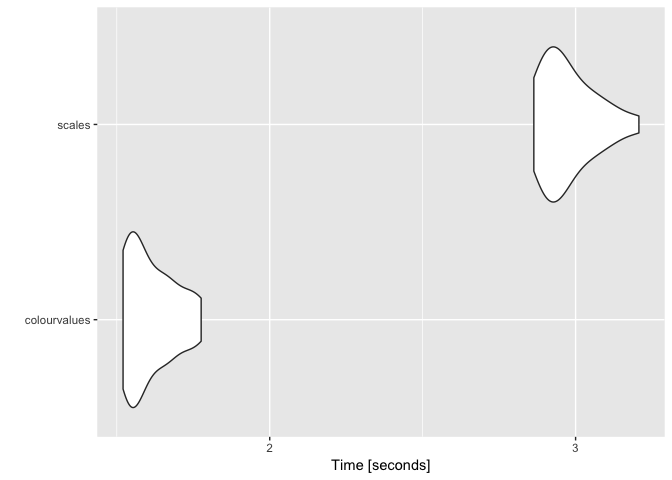
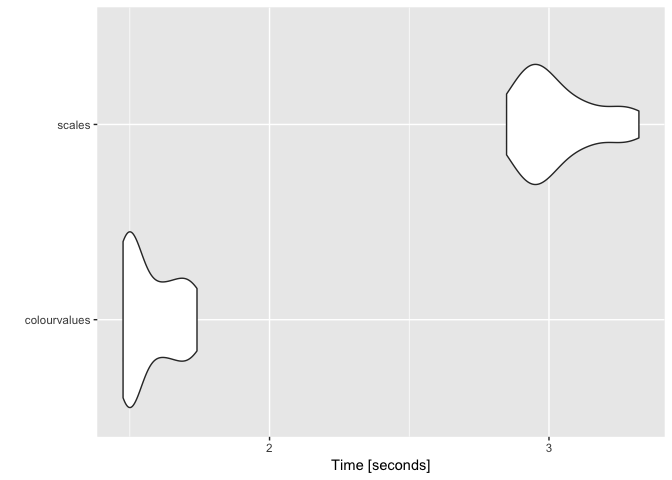
tests, news, description and cran checks

diff --git a/README.md b/README.md
@@ -275,11 +275,11 @@ summary
 ``` r
 colour_values(rnorm(n = 10), n_summaries = 3, digits = 2)
 # $colours
-#  [1] "#471163FF" "#472D7BFF" "#1F9F88FF" "#30B47BFF" "#287C8EFF"
-#  [6] "#2D6F8EFF" "#3F4989FF" "#FDE725FF" "#440154FF" "#404688FF"
+#  [1] "#27AD81FF" "#3F4989FF" "#39568CFF" "#218F8DFF" "#228C8DFF"
+#  [6] "#FDE725FF" "#440154FF" "#3F4889FF" "#453681FF" "#26818EFF"
 # 
 # $summary_values
-# [1] "-1.66" "0.33"  "2.32" 
+# [1] "-1.21" "0.71"  "2.62" 
 # 
 # $summary_colours
 # [1] "#440154FF" "#21908CFF" "#FDE725FF"
@@ -329,20 +329,20 @@ values, and their associated colours
 ``` r
 colour_values(sample(letters, size = 50, replace = T), summary = T)
 # $colours
-#  [1] "#43BF71FF" "#345F8DFF" "#FDE725FF" "#DDE318FF" "#21908CFF"
-#  [6] "#2A788EFF" "#345F8DFF" "#2FB47CFF" "#5DC963FF" "#440154FF"
-# [11] "#BCDF27FF" "#3B528BFF" "#43BF71FF" "#2F6C8EFF" "#2F6C8EFF"
-# [16] "#3B528BFF" "#440154FF" "#9AD93DFF" "#463480FF" "#1E9C89FF"
-# [21] "#463480FF" "#440154FF" "#440154FF" "#BCDF27FF" "#2FB47CFF"
-# [26] "#3B528BFF" "#7AD151FF" "#25848EFF" "#414487FF" "#3B528BFF"
-# [31] "#BCDF27FF" "#481466FF" "#22A884FF" "#2FB47CFF" "#9AD93DFF"
-# [36] "#21908CFF" "#9AD93DFF" "#2F6C8EFF" "#7AD151FF" "#FDE725FF"
-# [41] "#482575FF" "#1E9C89FF" "#440154FF" "#2A788EFF" "#481466FF"
-# [46] "#43BF71FF" "#482575FF" "#345F8DFF" "#22A884FF" "#43BF71FF"
+#  [1] "#2F6C8EFF" "#2FB47CFF" "#482575FF" "#2F6C8EFF" "#43BF71FF"
+#  [6] "#3B528BFF" "#414487FF" "#2FB47CFF" "#43BF71FF" "#5DC963FF"
+# [11] "#5DC963FF" "#2F6C8EFF" "#7AD151FF" "#345F8DFF" "#7AD151FF"
+# [16] "#7AD151FF" "#482575FF" "#25848EFF" "#1E9C89FF" "#2A788EFF"
+# [21] "#9AD93DFF" "#3B528BFF" "#481466FF" "#7AD151FF" "#22A884FF"
+# [26] "#5DC963FF" "#21908CFF" "#FDE725FF" "#21908CFF" "#DDE318FF"
+# [31] "#463480FF" "#21908CFF" "#25848EFF" "#2F6C8EFF" "#481466FF"
+# [36] "#25848EFF" "#440154FF" "#BCDF27FF" "#345F8DFF" "#25848EFF"
+# [41] "#440154FF" "#FDE725FF" "#440154FF" "#43BF71FF" "#1E9C89FF"
+# [46] "#22A884FF" "#2F6C8EFF" "#BCDF27FF" "#DDE318FF" "#463480FF"
 # 
 # $summary_values
-#  [1] "b" "f" "g" "h" "i" "j" "k" "m" "n" "o" "p" "q" "r" "s" "t" "u" "v"
-# [18] "w" "x" "y" "z"
+#  [1] "a" "b" "c" "e" "f" "g" "h" "i" "j" "k" "m" "o" "p" "q" "r" "s" "t"
+# [18] "u" "x" "y" "z"
 # 
 # $summary_colours
 #  [1] "#440154FF" "#481466FF" "#482575FF" "#463480FF" "#414487FF"
@@ -375,8 +375,8 @@ m <- microbenchmark(
 m
 # Unit: seconds
 #          expr      min       lq     mean   median       uq      max neval
-#  colourvalues 1.646645 1.664558 1.708250 1.682939 1.741683 1.826235    25
-#        scales 2.838452 2.885296 2.971917 2.940913 3.041552 3.262631    25
+#  colourvalues 1.617036 1.629365 1.682938 1.645191 1.745641 1.800155    25
+#        scales 2.820961 2.916128 3.035900 2.981311 3.140706 3.418156    25
 
 autoplot(m)
 # Coordinate system already present. Adding new coordinate system, which will replace the existing one.
@@ -404,8 +404,8 @@ m <- microbenchmark(
 m
 # Unit: milliseconds
 #          expr      min       lq     mean   median       uq      max neval
-#  colourvalues 184.4999 194.1111 196.7344 194.7268 196.9258 234.9344    25
-#        scales 295.7765 309.4233 319.2835 315.8983 324.1985 386.2713    25
+#  colourvalues 182.1952 203.5807 206.2559 207.5844 209.7223 245.3349    25
+#        scales 329.7487 342.8897 349.5171 345.3121 345.8927 417.3716    25
 
 autoplot(m)
 # Coordinate system already present. Adding new coordinate system, which will replace the existing one.

diff --git a/cran-comments.md b/cran-comments.md
@@ -2,7 +2,11 @@
 ## Release Notes
 
 * Updates v0.2.1 to v0.2.2
-* Improved handling of Dates and POSIXct objects
+* CRAN Build Notes: Fedora Clang and OSX builds give notes
+"installed package size is 6.1Mb"
+  - I can't reduce the libs directory as all the compiled source code is required
+
+
 
 ## Test environments
 * local OS X install, R 3.5.0

diff --git a/NEWS.md b/NEWS.md
@@ -1,5 +1,6 @@
 # v0.2.2
 
+* [0,1) alpha values treated as percentage [issue 37](https://github.com/SymbolixAU/colourvalues/issues/37)
 * Fixed NAs in character summary values [issue 42](https://github.com/SymbolixAU/colourvalues/issues/42)
 * Improved handling of Dates in summary values
 
